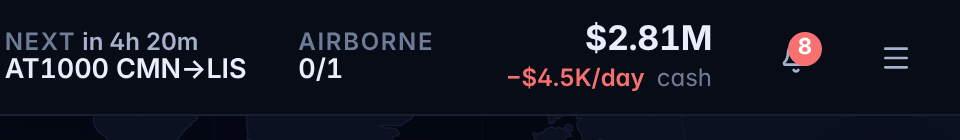
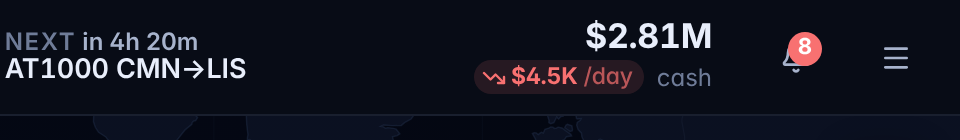
Handover: ETOPS done, Visual B started

diff --git a/.handover/HANDOVER.md b/.handover/HANDOVER.md
@@ -455,3 +455,8 @@ Player notes (22 Oct, with top-bar screenshot .handover/updates/topbar-space.jpg
 ### 26 Oct — cash rate + RELEASE GO for this batch
 - Top bar profit/day beside "cash" (src/ui/shell/cashRate.ts): month-to-date statement profit/elapsed days − (rent+insurance+overhead+salaries+heads)/days in month; first 2 days of a month = last month's average. Green/red. On branch ui/engines.
 - PLAYER SAID: "After you finish everything, you can push it to main and update. This batch is big enough." → release (main + Pages) is APPROVED once ETOPS ferries + Visual B + test rewrite are done and verified. Needs a What's new entry (assemble from updates/whatsnew-draft.md + earlier drafts: phone call, approvals reliability/ETOPS programme, caller names, round-up, light theme, Ops update 1, debug fixes, Clients on Contracts, map visuals, family colours, cash rate, ETOPS ferries, Visual B) and version bump.
+
+### 26 Oct — ETOPS ferries done; icons+cash merged; Visual B started
+- ETOPS ferries on acmi (41cfcc6, 4e5270f crew 14h after ≥4tz ticket fix, bcee27f, f9aa970, f6cb1ea): ferries/positioning ≤ min(approval, aircraft capability), 60 min with none, quads free; northern routing via new en-route airports (SFJ, UAK, YFB, YYR, YQX, YYT, BDA, ANF, IQQ; KEF runway; MDW runway corrected); ferry days ≤3 legs/10 h, 14 h night stops; impossible crossing card (hand over this side / ferry company, new ledger "Ferry companies"); Fleet ETOPS line; load repair. 1226 tests. RESEARCH.md §18. Widebody bot −12% → −27% (noise; already bankrupt before).
+- ui/engines merged → acmi f5fccb9 (engines under wing, family colours, profit/day pill).
+- Visual B agent running (5,7,8,9,10,11,12,13 + map label thinning + airline/diversion-map silhouettes + empty divider). Then: test rewrite with Ops on → release (approved).

diff --git a/.handover/updates/whatsnew-draft.md b/.handover/updates/whatsnew-draft.md
@@ -11,3 +11,13 @@ features:
 
 improvements:
 - Contrails and the gliding night follow the Map animations setting and the system's Reduce Motion.
+
+## ETOPS on ferries (engine, after Visual A)
+
+features:
+- Ferries and empty legs now follow ETOPS like a real airline: without an ETOPS approval a twin stays within 60 minutes of an airport, so a delivery from Canada or the US comes home the northern way (Kangerlussuaq, Iqaluit, Keflavík, Shannon), with fuel stops and night stops on the map and in the Schedule. With the approval and a capable aircraft it flies direct.
+- A crossing we may not fly (a twin across the Pacific without ETOPS 180) is said before you sign, with what real operators do: get the approval first, take the aircraft on this side, or pay a ferry company to bring it home.
+
+improvements:
+- The Fleet card's ETOPS line says what is really used, e.g. "capable of 120 min · approved 60 min → ferries go the northern way".
+- Pilots flying out to collect an aircraft across 4+ time zones now land with their full 14 h rest (deliveries from North America no longer wait for ever).
